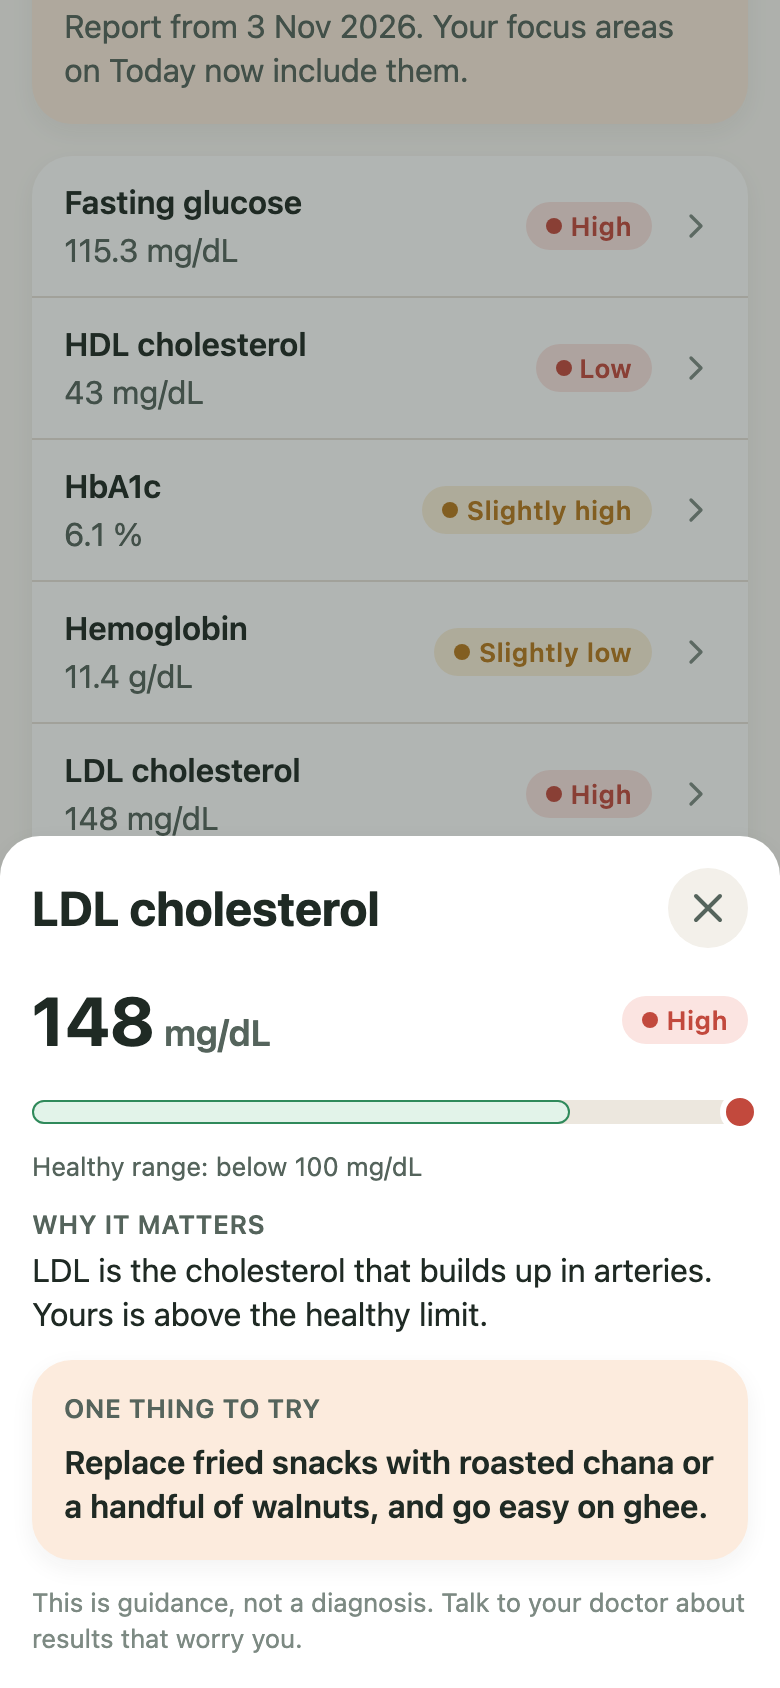
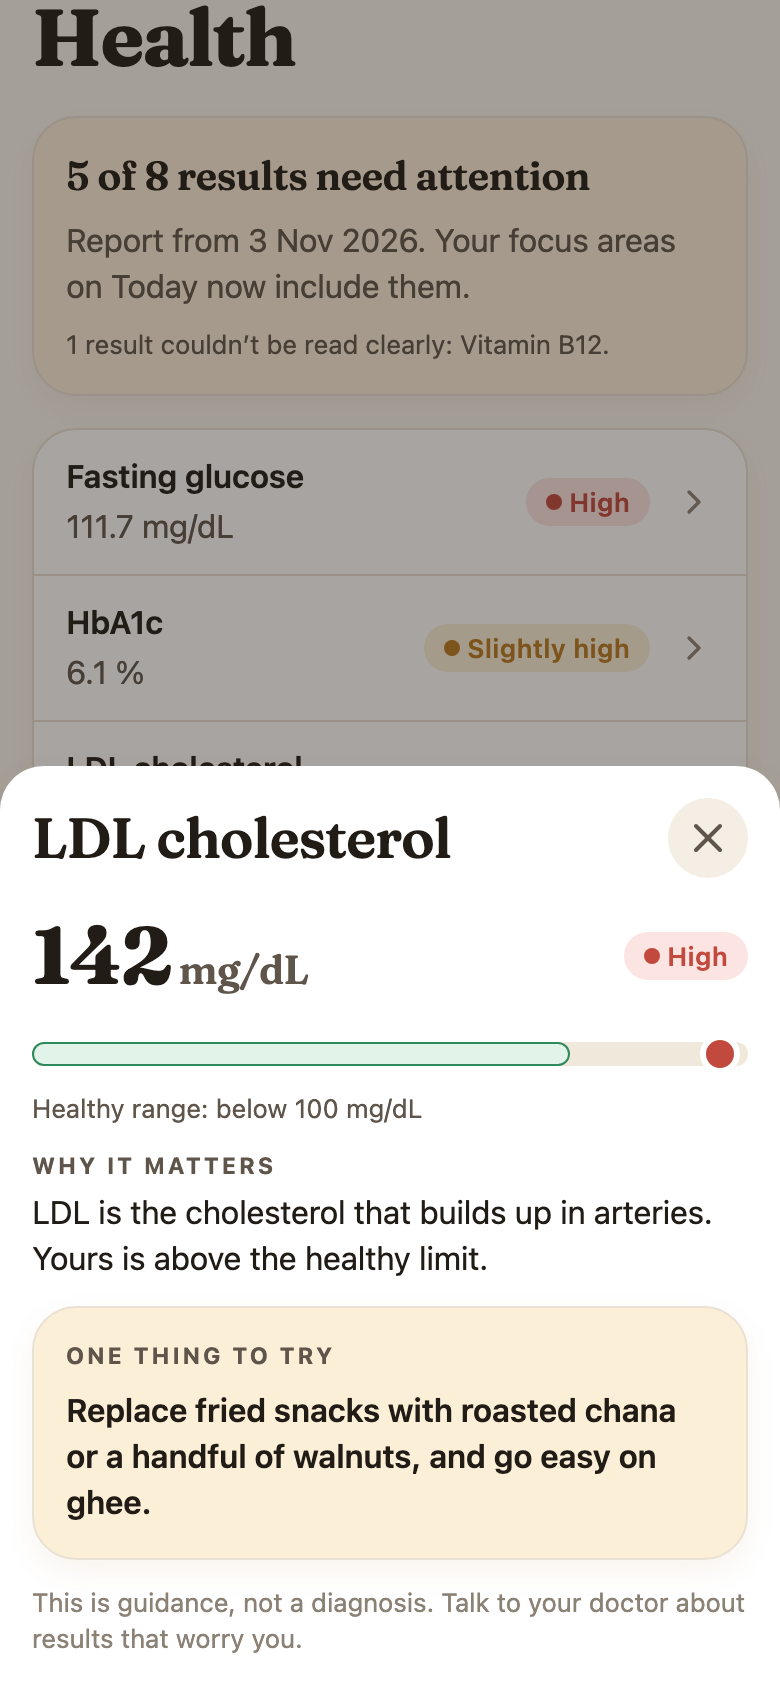
docs: describe the Katori design direction and refresh screenshots

diff --git a/docs/self-evaluation.md b/docs/self-evaluation.md
@@ -2,18 +2,18 @@
 
 Checked against the user testing checklist in the build guide.
 
-| #   | Question                                                                  | Answer                           | Evidence                                                                                                                                  |
-| --- | ------------------------------------------------------------------------- | -------------------------------- | ----------------------------------------------------------------------------------------------------------------------------------------- |
-| 1   | Does it feel like an AI era assistant, not a 2017 data logging app?       | Yes                              | Snap or speak once; AI drafts the meal; the assistant card speaks first and phrases its advice; lab reports are read for you              |
-| 2   | Does onboarding end with a clear goal, a clear what and a clear why?      | Yes                              | Your Plan shows the goal, two targets, how they were calculated, and 2 or 3 focus areas each with a why                                   |
-| 3   | Is the assistant acting first, or is the user doing the work?             | Mostly the assistant             | Proactive card per time of day, reminders at learned meal times, automatic focus areas from lab results, offline sync without user action |
-| 4   | Are there feel good moments?                                              | Yes                              | Streak flame, confetti and a goal card once per goal day, weekly wins framed positively, kind copy on over days                           |
-| 5   | Is every screen simple, with one main action and little text?             | Yes                              | Onboarding: one question per card; Today: Snap or Speak; review: Save; Health: upload                                                     |
-| 6   | Would I open it again tomorrow? For 90 days?                              | Tomorrow yes; 90 days needs more | Streaks, reminders and wins pull people back. Longer term needs trends over weeks and goal updates (listed in next steps)                 |
-| 7   | Does every visible button work? Are loading, empty and error states real? | Yes                              | Covered by the browser e2e suites; every async screen has skeletons, empty and error states                                               |
-| 8   | Does it work offline, after a restart, and with permissions denied?       | Yes                              | Offline logging and sync, restart resumes onboarding or opens Today, denied camera or microphone offers Settings, gallery or hand entry   |
-| 9   | Is the theme light and calm by default?                                   | Yes                              | Light only (`userInterfaceStyle: light`), off white background, soft green primary, warm accent                                           |
-| 10  | Does the naming check return nothing?                                     | Yes                              | Run before every commit; see the final check in the step log                                                                              |
+| #   | Question                                                                  | Answer                           | Evidence                                                                                                                                                                                 |
+| --- | ------------------------------------------------------------------------- | -------------------------------- | ---------------------------------------------------------------------------------------------------------------------------------------------------------------------------------------- |
+| 1   | Does it feel like an AI era assistant, not a 2017 data logging app?       | Yes                              | Snap or speak once; AI drafts the meal; the assistant card speaks first and phrases its advice; lab reports are read for you                                                             |
+| 2   | Does onboarding end with a clear goal, a clear what and a clear why?      | Yes                              | Your Plan shows the goal, two targets, how they were calculated, and 2 or 3 focus areas each with a why                                                                                  |
+| 3   | Is the assistant acting first, or is the user doing the work?             | Mostly the assistant             | Proactive card per time of day, reminders at learned meal times, automatic focus areas from lab results, offline sync without user action                                                |
+| 4   | Are there feel good moments?                                              | Yes                              | Streak flame, confetti and a goal card once per goal day, weekly wins framed positively, kind copy on over days                                                                          |
+| 5   | Is every screen simple, with one main action and little text?             | Yes                              | Onboarding: one question per card; Today: Snap or Speak; review: Save; Health: upload                                                                                                    |
+| 6   | Would I open it again tomorrow? For 90 days?                              | Tomorrow yes; 90 days needs more | Streaks, reminders and wins pull people back. Longer term needs trends over weeks and goal updates (listed in next steps)                                                                |
+| 7   | Does every visible button work? Are loading, empty and error states real? | Yes                              | Covered by the browser e2e suites; every async screen has skeletons, empty and error states                                                                                              |
+| 8   | Does it work offline, after a restart, and with permissions denied?       | Yes                              | Offline logging and sync, restart resumes onboarding or opens Today, denied camera or microphone offers Settings, gallery or hand entry                                                  |
+| 9   | Is the theme light and calm by default?                                   | Yes                              | Light only (`userInterfaceStyle: light`): warm paper background, ink text, turmeric and curry leaf accents, a serif for headlines. Deliberately not the usual mint green health app look |
+| 10  | Does the naming check return nothing?                                     | Yes                              | Run before every commit; see the final check in the step log                                                                                                                             |
 
 ## Known gaps
 

diff --git a/README.md b/README.md
@@ -34,6 +34,7 @@ clear _why_, and nudges at the right moment.
 | 4   | **Health report reader**                | Upload a photo or PDF of a blood report. Markers are listed green, amber or red; each opens a sheet with where it sits in the healthy range, why it matters and one food action. Today's focus areas update automatically.                                |
 
 <p>
+  <img src="docs/screenshots/welcome.png" width="200" alt="Welcome screen with the Katori bowl mark" />
   <img src="docs/screenshots/onboarding.png" width="200" alt="Onboarding card" />
   <img src="docs/screenshots/plan.png" width="200" alt="Your Plan screen" />
   <img src="docs/screenshots/goal-hit.png" width="200" alt="Goal hit celebration" />
@@ -72,6 +73,29 @@ On tablets and desktop web the same sheets become centred dialogs:
   fresh", and wins get confetti once, not every time.
 - **Honest copy.** The report step says the file is read by AI and then discarded; lab sheets say
   "guidance, not a diagnosis".
+
+### Design direction
+
+Most health apps are white, mint green and a sans serif, and they all blur together. Katori is
+named after the small bowl Indian portions are measured in, and the look comes from the same
+kitchen:
+
+- **Palette:** warm paper background, ink for text and main buttons, turmeric as the brand colour
+  (calorie ring, highlights) and curry leaf green for protein. Lab statuses keep the familiar green,
+  amber and red, because those must read instantly. Light only, every pair checked for AA contrast.
+- **Type:** Fraunces, a warm serif, for headlines and the big numbers, so the app reads like a
+  friendly food column instead of a spreadsheet. Body text stays on the system font (two font
+  weights, about 70 KB each, are the only additions).
+- **Today's katori:** calories and protein are nested rings, like a bowl seen from above, with
+  what is left in the middle.
+- **An assistant with a face:** the bowl mark speaks on the assistant card, whose colour follows
+  the day (turmeric morning, leaf afternoon, dusk evening) so a new check in is visible at a glance.
+- **One dock for logging:** Snap (turmeric) and Speak sit together on an ink panel with "From
+  gallery" and "Type it in" underneath, so all four ways to log are one glance away.
+- **Onboarding that feels like a conversation:** a welcome screen with three promises, then one
+  serif question per step with a segmented progress bar, icons for goals and signal bars for
+  activity level. The plan arrives as an ink card with the two numbers, the maths, then numbered
+  focus areas.
 
 ## Architecture
 

diff --git a/docs/loom-script.md b/docs/loom-script.md
@@ -10,19 +10,24 @@ Record on a phone mirror or the web app at phone width. Start on a fresh install
 
 ## 0:20 to 0:55, flow 1: onboarding with a goal and a why
 
+- Open on the welcome screen: the bowl mark, "Eat well, know why." and three promises.
+
+> "It's called Katori, after the small bowl Indian portions are measured in. Turmeric, ink and a
+> serif, because most health apps look like the same mint green spreadsheet."
+
 - Type a name, show the friendly error on an empty field, enter age, sex, height (flip to ft/in),
   activity and the goal "Lose weight". Skip the report.
 
 > "Five short cards, answers survive going back or closing the app."
 
-- On **Your Plan**, point at the two numbers and "How Katori worked this out".
+- On **Your Plan**, point at the ink card with the two numbers and "How Katori worked this out".
 
 > "The targets are deterministic, Mifflin St Jeor times activity minus 500, and the app shows its
 > maths. Each focus area comes with a one line why."
 
 ## 0:55 to 1:45, flow 2: log a meal by photo or voice
 
-- Tap **Snap**, photograph a plate. Show the skeleton chips, then the review sheet.
+- Tap **Snap** on the dark logging dock, photograph a plate. Show the skeleton chips, then the review sheet.
 - Remove one chip, tap another and press **+** to make it bigger; the total updates.
 
 > "The AI reads the photo; totals are summed in code. Doubtful items are highlighted for a quick
@@ -34,7 +39,7 @@ Record on a phone mirror or the web app at phone width. Start on a fresh install
 > "Voice listens first, then estimates only from words it heard. Silence is rejected instead of
 > turned into a made up meal."
 
-- Turn on airplane mode, **Add by hand** "Masala chai, 90 kcal", save: "Waiting to sync". Turn it
+- Turn on airplane mode, **Type it in** "Masala chai, 90 kcal", save: "Waiting to sync". Turn it
   off: it syncs.
 
 ## 1:45 to 2:25, flow 3: Today
